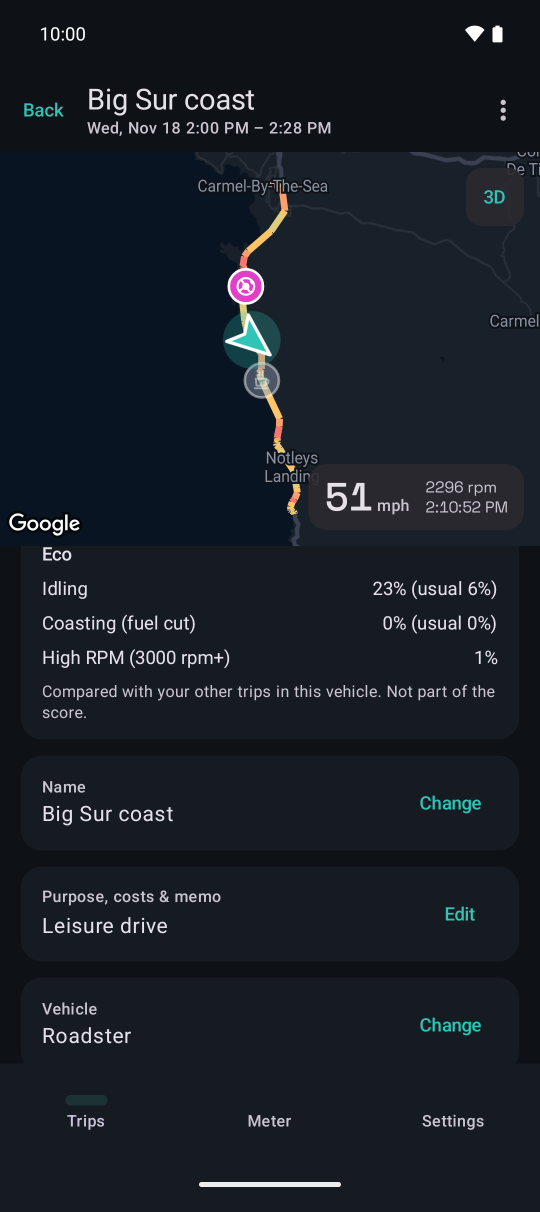
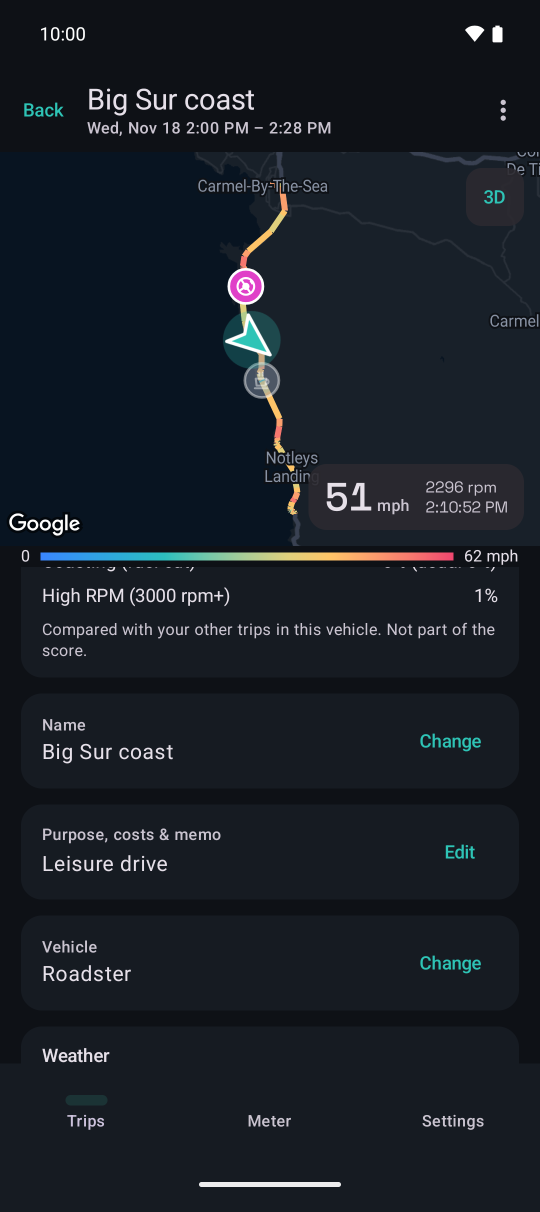
リプレイの画面を新しい並びに撮り直す（マニュアル・トップ）、動作確認済みアダプターのページを足す

diff --git a/ja/manual/replay.html b/ja/manual/replay.html
@@ -17,18 +17,18 @@
 <h1>走行詳細とリプレイ</h1>
 <p class="lead">走行を地図上で再生し、そのときの速度・回転数・燃費などを確認できます。</p>
 <h2 id="replay">地図と再生</h2>
-<figure class="shot"><div class="frame"><img src="../../manual/img/ja/detail-top.png" alt="" loading="lazy"><span class="box" style="left:0.00%;top:12.54%;width:100.00%;height:32.51%"><span class="mark">1</span></span><span class="box" style="left:86.11%;top:13.82%;width:11.11%;height:4.95%"><span class="mark">2</span></span><span class="box" style="left:57.87%;top:38.16%;width:39.35%;height:5.57%"><span class="mark">3</span></span><span class="box" style="left:3.89%;top:46.82%;width:96.11%;height:3.30%"><span class="mark">4</span></span><span class="box" style="left:3.89%;top:52.19%;width:92.22%;height:18.98%"><span class="mark">5</span></span><span class="box" style="left:26.39%;top:72.61%;width:47.22%;height:6.19%"><span class="mark">6</span></span><span class="box" style="left:80.56%;top:79.00%;width:15.56%;height:4.74%"><span class="mark">7</span></span></div><figcaption><ol class="legend"><li><span class="mark">1</span><span>ルートを色分けして描きます。イベントは種類ごとのアイコンで出し、タップするとその時刻へ移ります</span></li><li><span class="mark">2</span><span>3D の地図に切り替えます</span></li><li><span class="mark">3</span><span>再生している時刻の車速・回転数・時刻</span></li><li><span class="mark">4</span><span>色分けとグラフの値（速度・回転数・燃費・アクセル・エンジン負荷・水温・標高）</span></li><li><span class="mark">5</span><span>時系列のグラフ。指で横になぞると、その時刻へ移ります。下の ▲ はイベント（まだ来ていないものは薄く）、灰色の帯は休憩</span></li><li><span class="mark">6</span><span>再生・一時停止と前・次のイベントへ移動</span></li><li><span class="mark">7</span><span>再生の速さ（タップするたびに ×1・×4・×16・×60 に変更）</span></li></ol></figcaption></figure>
+<figure class="shot"><div class="frame"><img src="../../manual/img/ja/detail-top.png" alt="" loading="lazy"><span class="box" style="left:0.00%;top:12.54%;width:100.00%;height:32.22%"><span class="mark">1</span></span><span class="box" style="left:86.11%;top:13.82%;width:11.11%;height:4.95%"><span class="mark">2</span></span><span class="box" style="left:57.87%;top:38.16%;width:39.35%;height:5.57%"><span class="mark">3</span></span><span class="box" style="left:2.78%;top:44.88%;width:94.44%;height:2.15%"><span class="mark">4</span></span><span class="box" style="left:3.89%;top:47.24%;width:92.22%;height:17.95%"><span class="mark">5</span></span><span class="box" style="left:2.78%;top:67.04%;width:70.37%;height:6.81%"><span class="mark">6</span></span><span class="box" style="left:80.56%;top:68.07%;width:15.56%;height:4.74%"><span class="mark">7</span></span><span class="box" style="left:3.89%;top:74.05%;width:92.22%;height:9.69%"><span class="mark">8</span></span><span class="box" style="left:5.56%;top:85.60%;width:64.81%;height:2.68%"><span class="mark">9</span></span></div><figcaption><ol class="legend"><li><span class="mark">1</span><span>ルートを色分けして描きます。イベントは種類ごとのアイコンで出し、タップするとその時刻へ移ります</span></li><li><span class="mark">2</span><span>3D の地図に切り替えます</span></li><li><span class="mark">3</span><span>再生している時刻の車速・回転数・時刻</span></li><li><span class="mark">4</span><span>色分けの凡例（色と値の対応）</span></li><li><span class="mark">5</span><span>時系列のグラフ。指で横になぞると、その時刻へ移ります。下の ▲ はイベント（まだ来ていないものは薄く）、灰色の帯は休憩</span></li><li><span class="mark">6</span><span>左から、再生している時刻と走り始めからの経過時間、前のイベントへ・再生／一時停止・次のイベントへ</span></li><li><span class="mark">7</span><span>再生の速さ（タップするたびに ×1・×4・×16・×60 に変更）</span></li><li><span class="mark">8</span><span>再生している時刻の車速・回転数・瞬間燃費・水温。タップすると、その値を色分けとグラフにします（選んでいるものに下地の色が付きます）</span></li><li><span class="mark">9</span><span>ほかの値（アクセル・エンジン負荷・標高）を色分けとグラフにします</span></li></ol></figcaption></figure>
 <p>地図のイベントのアイコンは、急加速が右上がりの矢印、急減速が右下がりの矢印、速度超過がメーター、急ハンドルがハンドル、衝撃がはじける形、休憩がコーヒーカップです。地図を寄せて見ると、アイコンの横に種類・強さ・時刻のラベルが出ます。再生位置より先のイベントは薄く表示します。</p>
 <p>アクセル・エンジン負荷・水温・標高の色分けとグラフはプレミアムプランの機能です（記録にある値だけ出ます）。</p>
 <figure class="shot"><div class="frame"><img src="../../manual/img/ja/detail-3d.png" alt="" loading="lazy"><span class="box" style="left:86.11%;top:14.03%;width:10.65%;height:4.74%"><span class="mark">1</span></span></div><figcaption><p>3D 表示の地図です。進行方向を上にして車の斜め後ろから見下ろします。都市部では建物が立体で表示されます。地図を指で動かすと車を追うのを中断し、再生すると戻ります。</p><ol class="legend"><li><span class="mark">1</span><span>真上からの地図に戻します</span></li></ol></figcaption></figure>
 <h3>点線の区間</h3>
 <ul><li><strong>点線</strong>：GPS の電波が弱かった区間（トンネル・屋根の下・高架下など）。前後の位置を直線で結んでいます</li><li><strong>灰色の細かい点線</strong>：GPS を記録していなかった区間（位置情報の許可・端末の位置情報がオフ）</li><li>どちらも、再生中の車は OBD の車速に合わせて直線の上を進みます（止まっていた間は進みません）</li></ul>
-<h2>走行時の値・イベント・集計</h2>
-<figure class="shot"><div class="frame"><img src="../../manual/img/ja/detail-scroll1.png" alt="" loading="lazy"><span class="box" style="left:3.89%;top:47.03%;width:92.22%;height:11.96%"><span class="mark">1</span></span><span class="box" style="left:3.89%;top:59.20%;width:92.22%;height:9.69%"><span class="mark">2</span></span><span class="box" style="left:3.89%;top:70.54%;width:92.22%;height:17.74%"><span class="mark">3</span></span></div><figcaption><ol class="legend"><li><span class="mark">1</span><span>再生している時刻での各値</span></li><li><span class="mark">2</span><span>イベントの一覧。段階・強さ・減点・走り始めからの経過時間。タップでその時刻へ移動</span></li><li><span class="mark">3</span><span>距離・時間・推定燃費・走行時間・平均速度・最高速度</span></li></ol></figcaption></figure>
+<h2>イベント・集計</h2>
+<figure class="shot"><div class="frame"><img src="../../manual/img/ja/detail-scroll1.png" alt="" loading="lazy"><span class="box" style="left:3.89%;top:53.22%;width:92.22%;height:10.73%"><span class="mark">1</span></span><span class="box" style="left:3.89%;top:66.21%;width:92.22%;height:22.07%"><span class="mark">2</span></span></div><figcaption><ol class="legend"><li><span class="mark">1</span><span>イベントの一覧。段階・強さ・減点・走り始めからの経過時間。タップでその時刻へ移動</span></li><li><span class="mark">2</span><span>距離・時間・推定燃費・走行時間・平均速度・最高速度</span></li></ol></figcaption></figure>
 <p>イベントは急加速・急減速・急ハンドル・速度超過（それぞれ低・中・高の段階）と、衝撃・休憩です。どの段階から地図に出すかは設定の「走行中のイベント」で選択できます（<a href="score.html">運転スコアとイベント</a>）。</p>
-<figure class="shot"><div class="frame"><img src="../../manual/img/ja/detail-scroll3.png" alt="" loading="lazy"><span class="box" style="left:3.89%;top:57.55%;width:92.22%;height:8.04%"><span class="mark">1</span></span><span class="box" style="left:3.89%;top:66.63%;width:92.22%;height:11.34%"><span class="mark">2</span></span><span class="box" style="left:3.89%;top:79.41%;width:92.22%;height:7.63%"><span class="mark">3</span></span></div><figcaption><p>さらに下には出発地・到着地（登録地点に登録できます）があります。</p><ol class="legend"><li><span class="mark">1</span><span>走行の名前</span></li><li><span class="mark">2</span><span>用途（通勤・業務・送迎・ドライブなど）・費用（通行料・燃料代など）・メモ</span></li><li><span class="mark">3</span><span>走った車両（あとから変更できます）</span></li></ol></figcaption></figure>
+<figure class="shot"><div class="frame"><img src="../../manual/img/ja/detail-scroll3.png" alt="" loading="lazy"><span class="box" style="left:3.89%;top:52.81%;width:92.22%;height:7.01%"><span class="mark">1</span></span><span class="box" style="left:3.89%;top:61.67%;width:92.22%;height:11.96%"><span class="mark">2</span></span><span class="box" style="left:3.89%;top:75.50%;width:92.22%;height:7.01%"><span class="mark">3</span></span></div><figcaption><p>さらに下には出発地・到着地（登録地点に登録できます）があります。</p><ol class="legend"><li><span class="mark">1</span><span>走行の名前</span></li><li><span class="mark">2</span><span>用途（通勤・業務・送迎・ドライブなど）・費用（通行料・燃料代など）・メモ</span></li><li><span class="mark">3</span><span>走った車両（あとから変更できます）</span></li></ol></figcaption></figure>
 <h2 id="summary">走り終わりのまとめ</h2>
-<p>メーターで自分で記録を止めると、走り終わりのまとめが出ます（自動で止まったときは、休憩のあとの続きになるかもしれないので出しません）。走行詳細の右上の ⋮ メニューの「まとめ・画像で共有」からも、いつでも開けます。</p>
+<p>メーターで自分で記録を止めると、走り終わりのまとめが出ます（自動で止まったときは、休憩のあとの続きになるかもしれないので出しません）。まとめの「走行の詳細を見る」で、その走行のリプレイへ移れます。走行詳細の右上の ⋮ メニューの「まとめ・画像で共有」からも、いつでも開けます。</p>
 <figure class="shot"><div class="frame"><img src="../../manual/img/ja/summary.png" alt="" loading="lazy"></div><figcaption><p>ルートの線（イベントは ▲）・距離・時間・燃費・平均速度・最高速度・燃料・速度帯ごとの時間・運転スコアと減点・エコをまとめたカードです。右上には記録したアプリのバージョンが入ります。</p></figcaption></figure>
 <p>「画像で共有」で、カードをそのまま画像にして渡せます。地図の画像は使わず、ルートは線だけです。出発地・到着地は最初は入れません（自宅の場所が分かってしまうため）。天気と車両名は入れるかを切り替えられます。</p>
 <h2 id="export">書き出しと共有</h2>

diff --git a/manual/replay.html b/manual/replay.html
@@ -17,18 +17,18 @@
 <h1>Trip details and replay</h1>
 <p class="lead">Replay a trip on the map and see the speed, RPM, fuel economy and more at each moment.</p>
 <h2 id="replay">Map and playback</h2>
-<figure class="shot"><div class="frame"><img src="img/en/detail-top.png" alt="" loading="lazy"><span class="box" style="left:0.00%;top:12.54%;width:100.00%;height:32.51%"><span class="mark">1</span></span><span class="box" style="left:86.11%;top:13.82%;width:11.11%;height:4.95%"><span class="mark">2</span></span><span class="box" style="left:57.87%;top:38.16%;width:39.35%;height:5.57%"><span class="mark">3</span></span><span class="box" style="left:3.89%;top:46.82%;width:96.11%;height:3.30%"><span class="mark">4</span></span><span class="box" style="left:3.89%;top:52.19%;width:92.22%;height:18.98%"><span class="mark">5</span></span><span class="box" style="left:26.39%;top:72.61%;width:47.22%;height:6.19%"><span class="mark">6</span></span><span class="box" style="left:80.56%;top:79.00%;width:15.56%;height:4.74%"><span class="mark">7</span></span></div><figcaption><ol class="legend"><li><span class="mark">1</span><span>The route is drawn in colors. Events are shown with an icon for each kind; tap one to jump to that time</span></li><li><span class="mark">2</span><span>Switch to the 3D map</span></li><li><span class="mark">3</span><span>Speed, RPM and clock time at the playback position</span></li><li><span class="mark">4</span><span>Value for colors and the graph (speed, RPM, fuel economy, throttle, engine load, coolant, altitude)</span></li><li><span class="mark">5</span><span>Time graph. Drag across it to move to that time. The ▲ marks below are events (upcoming ones are faded) and gray bands are breaks</span></li><li><span class="mark">6</span><span>Play / pause, and previous / next event</span></li><li><span class="mark">7</span><span>Playback speed (each tap: ×1, ×4, ×16, ×60)</span></li></ol></figcaption></figure>
+<figure class="shot"><div class="frame"><img src="img/en/detail-top.png" alt="" loading="lazy"><span class="box" style="left:0.00%;top:12.54%;width:100.00%;height:32.22%"><span class="mark">1</span></span><span class="box" style="left:86.11%;top:13.82%;width:11.11%;height:4.95%"><span class="mark">2</span></span><span class="box" style="left:57.87%;top:38.16%;width:39.35%;height:5.57%"><span class="mark">3</span></span><span class="box" style="left:2.78%;top:44.88%;width:94.44%;height:2.15%"><span class="mark">4</span></span><span class="box" style="left:3.89%;top:47.24%;width:92.22%;height:17.95%"><span class="mark">5</span></span><span class="box" style="left:2.78%;top:67.04%;width:70.37%;height:6.81%"><span class="mark">6</span></span><span class="box" style="left:80.56%;top:68.07%;width:15.56%;height:4.74%"><span class="mark">7</span></span><span class="box" style="left:3.89%;top:74.05%;width:92.22%;height:9.69%"><span class="mark">8</span></span><span class="box" style="left:5.56%;top:85.60%;width:71.30%;height:2.68%"><span class="mark">9</span></span></div><figcaption><ol class="legend"><li><span class="mark">1</span><span>The route is drawn in colors. Events are shown with an icon for each kind; tap one to jump to that time</span></li><li><span class="mark">2</span><span>Switch to the 3D map</span></li><li><span class="mark">3</span><span>Speed, RPM and clock time at the playback position</span></li><li><span class="mark">4</span><span>Color legend (which color means which value)</span></li><li><span class="mark">5</span><span>Time graph. Drag across it to move to that time. The ▲ marks below are events (upcoming ones are faded) and gray bands are breaks</span></li><li><span class="mark">6</span><span>From the left: time at the playback position and time since the start, previous event, play / pause, next event</span></li><li><span class="mark">7</span><span>Playback speed (each tap: ×1, ×4, ×16, ×60)</span></li><li><span class="mark">8</span><span>Speed, RPM, instant fuel economy and coolant at the playback time. Tap one to show that value as colors and the graph (the selected one is highlighted)</span></li><li><span class="mark">9</span><span>Show the other values (throttle, engine load, altitude) as colors and the graph</span></li></ol></figcaption></figure>
 <p>Event icons on the map: an upward arrow for hard acceleration, a downward arrow for hard braking, a speedometer for speeding, a steering wheel for sharp turns, a burst for shocks and a coffee cup for breaks. Zoom in to see a label with the kind, strength and time next to each icon. Events after the playback position are faded.</p>
 <p>Coloring and graphs for throttle, engine load, coolant and altitude are Premium features (only values that were recorded appear).</p>
 <figure class="shot"><div class="frame"><img src="img/en/detail-3d.png" alt="" loading="lazy"><span class="box" style="left:86.11%;top:14.03%;width:10.65%;height:4.74%"><span class="mark">1</span></span></div><figcaption><p>The 3D map looks down from behind the car, with the direction of travel up. Buildings appear in 3D in cities. Moving the map with your finger stops following the car; playing resumes it.</p><ol class="legend"><li><span class="mark">1</span><span>Back to the top-down map</span></li></ol></figcaption></figure>
 <h3>Dashed sections</h3>
 <ul><li><strong>Dashed line</strong>: weak GPS signal (tunnels, under roofs, under overpasses). The points before and after are joined with a straight line</li><li><strong>Gray dotted line</strong>: GPS was not being recorded (location permission or the device's location was off)</li><li>In both, the car moves along the line at the speed reported by the car during playback (it stays still while the car was stopped)</li></ul>
-<h2>Values, events and summary</h2>
-<figure class="shot"><div class="frame"><img src="img/en/detail-scroll1.png" alt="" loading="lazy"><span class="box" style="left:3.89%;top:47.03%;width:92.22%;height:11.96%"><span class="mark">1</span></span><span class="box" style="left:3.89%;top:59.20%;width:92.22%;height:9.69%"><span class="mark">2</span></span><span class="box" style="left:3.89%;top:70.54%;width:92.22%;height:17.74%"><span class="mark">3</span></span></div><figcaption><ol class="legend"><li><span class="mark">1</span><span>Values at the playback time</span></li><li><span class="mark">2</span><span>Events: level, strength, deduction and time from the start. Tap to jump there</span></li><li><span class="mark">3</span><span>Distance, time, estimated fuel economy, moving time, average and top speed</span></li></ol></figcaption></figure>
+<h2>Events and summary</h2>
+<figure class="shot"><div class="frame"><img src="img/en/detail-scroll1.png" alt="" loading="lazy"><span class="box" style="left:3.89%;top:53.22%;width:92.22%;height:10.73%"><span class="mark">1</span></span><span class="box" style="left:3.89%;top:66.21%;width:92.22%;height:22.07%"><span class="mark">2</span></span></div><figcaption><ol class="legend"><li><span class="mark">1</span><span>Events: level, strength, deduction and time from the start. Tap to jump there</span></li><li><span class="mark">2</span><span>Distance, time, estimated fuel economy, moving time, average and top speed</span></li></ol></figcaption></figure>
 <p>Events are hard acceleration, hard braking, sharp turns and speeding (each with low, medium and high levels), plus impacts and breaks. Choose from which level they appear on the map in Settings → Driving events (see <a href="score.html">Driving score and events</a>).</p>
-<figure class="shot"><div class="frame"><img src="img/en/detail-scroll3.png" alt="" loading="lazy"><span class="box" style="left:3.89%;top:62.29%;width:92.22%;height:8.25%"><span class="mark">1</span></span><span class="box" style="left:3.89%;top:71.58%;width:92.22%;height:7.84%"><span class="mark">2</span></span><span class="box" style="left:3.89%;top:80.65%;width:92.22%;height:7.22%"><span class="mark">3</span></span></div><figcaption><p>Further down are the start and end places (you can register them as places).</p><ol class="legend"><li><span class="mark">1</span><span>Trip name</span></li><li><span class="mark">2</span><span>Purpose (commute, business, pickup, leisure and more), costs (tolls, fuel and more) and memo</span></li><li><span class="mark">3</span><span>The vehicle (you can change it later)</span></li></ol></figcaption></figure>
+<figure class="shot"><div class="frame"><img src="img/en/detail-scroll3.png" alt="" loading="lazy"><span class="box" style="left:3.89%;top:57.96%;width:92.22%;height:7.01%"><span class="mark">1</span></span><span class="box" style="left:3.89%;top:67.04%;width:92.22%;height:7.22%"><span class="mark">2</span></span><span class="box" style="left:3.89%;top:76.32%;width:92.22%;height:7.01%"><span class="mark">3</span></span></div><figcaption><p>Further down are the start and end places (you can register them as places).</p><ol class="legend"><li><span class="mark">1</span><span>Trip name</span></li><li><span class="mark">2</span><span>Purpose (commute, business, pickup, leisure and more), costs (tolls, fuel and more) and memo</span></li><li><span class="mark">3</span><span>The vehicle (you can change it later)</span></li></ol></figcaption></figure>
 <h2 id="summary">Trip summary</h2>
-<p>When you stop recording yourself on the meter, a trip summary appears (it doesn't appear after an automatic stop, since the trip may continue after a break). You can also open it any time from Summary & share as image in the ⋮ menu of the trip details.</p>
+<p>When you stop recording yourself on the meter, a trip summary appears (it doesn't appear after an automatic stop, since the trip may continue after a break). Open trip details in the summary takes you to the replay of that trip. You can also open it any time from Summary & share as image in the ⋮ menu of the trip details.</p>
 <figure class="shot"><div class="frame"><img src="img/en/summary.png" alt="" loading="lazy"></div><figcaption><p>A card with the route line (events as ▲), distance, time, fuel economy, average and top speed, fuel, time by speed, driving score and deductions, and eco figures. The version of the app that recorded the trip is shown at the top right.</p></figcaption></figure>
 <p>Share as image turns the card into a picture to send. No map image is used; the route is just a line. Start and end places are left out by default (they could reveal where you live). You can choose whether to include the weather and vehicle name.</p>
 <h2 id="export">Export and sharing</h2>

diff --git a/ja/manual/score.html b/ja/manual/score.html
@@ -16,7 +16,7 @@
 <nav class="pager"><a href="replay.html">← 走行詳細とリプレイ</a><a href="index.html">目次</a><a href="fuel.html">給油記録 →</a></nav>
 <h1>運転スコアとイベント</h1>
 <p class="lead">走行ごとに 100 点満点のスコアを出します。どのイベントで何点減ったかがすべて分かります。スコア計算は端末の中だけで行い、外部には元になるデータや結果を送信しません。</p>
-<figure class="shot"><div class="frame"><img src="../../manual/img/ja/detail-scroll2.png" alt="" loading="lazy"><span class="box" style="left:3.89%;top:56.93%;width:92.22%;height:22.07%"><span class="mark">1</span></span><span class="box" style="left:10.19%;top:64.15%;width:41.67%;height:2.27%"><span class="mark">2</span></span><span class="box" style="left:3.89%;top:79.00%;width:92.22%;height:9.28%"><span class="mark">3</span></span></div><figcaption><p>走行詳細の数値サマリ下の画面です。</p><ol class="legend"><li><span class="mark">1</span><span>運転スコアとイベントの種類・段階ごとの回数と減点</span></li><li><span class="mark">2</span><span>地図に出していない段階のイベントも減点します（その旨を注釈）</span></li><li><span class="mark">3</span><span>エコの評価（スコアとは別）</span></li></ol></figcaption></figure>
+<figure class="shot"><div class="frame"><img src="../../manual/img/ja/detail-scroll2.png" alt="" loading="lazy"><span class="box" style="left:3.89%;top:52.39%;width:92.22%;height:17.33%"><span class="mark">1</span></span><span class="box" style="left:10.19%;top:58.99%;width:34.26%;height:2.48%"><span class="mark">2</span></span><span class="box" style="left:3.89%;top:70.96%;width:92.22%;height:17.33%"><span class="mark">3</span></span></div><figcaption><p>走行詳細の数値サマリ下の画面です。</p><ol class="legend"><li><span class="mark">1</span><span>運転スコアとイベントの種類・段階ごとの回数と減点</span></li><li><span class="mark">2</span><span>地図に出していない段階のイベントも減点します（その旨を注釈）</span></li><li><span class="mark">3</span><span>エコの評価（スコアとは別）</span></li></ol></figcaption></figure>
 <h2>スコアの付け方</h2>
 <ul><li>100 点からイベント 1 件ごとに減点します：低 −1、中 −3、高 −6</li><li>長い走行ほどイベントが出やすいので 10 km より長い走行は「10 km ÷ 走行距離」を掛けてならします</li><li>衝撃（段差や悪路でも出るため）と休憩は減点対象となりません</li><li>距離が 1 km 未満の走行と、OBD の車速がない走行（GPS のみの走行）はスコアを出しません</li><li>スコアはイベントを地図に出す設定に関係なく算出します。速度超過の基準速度を変更した場合のみ算出結果が変わります</li></ul>
 <h2 id="levels">イベントの段階</h2>

diff --git a/manual/score.html b/manual/score.html
@@ -16,7 +16,7 @@
 <nav class="pager"><a href="replay.html">← Trip details and replay</a><a href="index.html">Contents</a><a href="fuel.html">Fuel log →</a></nav>
 <h1>Driving score and events</h1>
 <p class="lead">Each trip gets a score out of 100, and you can see exactly which events cost how many points. It is calculated only on your device; neither the data behind it nor the result is sent anywhere.</p>
-<figure class="shot"><div class="frame"><img src="img/en/detail-scroll2.png" alt="" loading="lazy"><span class="box" style="left:3.89%;top:56.93%;width:92.22%;height:22.07%"><span class="mark">1</span></span><span class="box" style="left:10.19%;top:66.42%;width:37.96%;height:3.30%"><span class="mark">2</span></span><span class="box" style="left:3.89%;top:80.45%;width:92.22%;height:7.84%"><span class="mark">3</span></span></div><figcaption><p>Below the summary in trip details.</p><ol class="legend"><li><span class="mark">1</span><span>Driving score and the count and deduction for each event type and level</span></li><li><span class="mark">2</span><span>Events at levels hidden from the map are still deducted (and labeled so)</span></li><li><span class="mark">3</span><span>Eco review (separate from the score)</span></li></ol></figcaption></figure>
+<figure class="shot"><div class="frame"><img src="img/en/detail-scroll2.png" alt="" loading="lazy"><span class="box" style="left:3.89%;top:52.81%;width:92.22%;height:22.28%"><span class="mark">1</span></span><span class="box" style="left:10.19%;top:62.91%;width:36.11%;height:2.48%"><span class="mark">2</span></span><span class="box" style="left:3.89%;top:76.32%;width:92.22%;height:11.96%"><span class="mark">3</span></span></div><figcaption><p>Below the summary in trip details.</p><ol class="legend"><li><span class="mark">1</span><span>Driving score and the count and deduction for each event type and level</span></li><li><span class="mark">2</span><span>Events at levels hidden from the map are still deducted (and labeled so)</span></li><li><span class="mark">3</span><span>Eco review (separate from the score)</span></li></ol></figcaption></figure>
 <h2>How the score works</h2>
 <ul><li>Start from 100 and deduct for each event: low −1, medium −3, high −6</li><li>Longer trips have more chances for events, so deductions on trips over 10 km (6.2 mi) are scaled by “10 km ÷ trip distance”</li><li>Impacts (which bumps and rough roads also cause) and breaks are not deducted</li><li>Trips under 1 km (0.6 mi) and trips without speed from the car (GPS only) get no score</li><li>The score does not depend on which levels are shown on the map. It changes only when you change the speeding thresholds</li></ul>
 <h2 id="levels">Event levels</h2>

diff --git a/ja/adapters.html b/ja/adapters.html
@@ -1,0 +1,35 @@
+<!doctype html>
+<html lang="ja">
+<head>
+<meta charset="utf-8">
+<meta name="viewport" content="width=device-width, initial-scale=1">
+<title>動作確認済みアダプター — CarReplotter</title>
+<meta name="description" content="CarReplotter で動作を確認した OBD2 アダプターです。ここにないものでも、Bluetooth Low Energy（BLE）型・Wi-Fi 型の ELM327 互換アダプターなら使えることがあります。">
+<link rel="stylesheet" href="../style.css">
+<link rel="alternate" hreflang="en" href="../adapters.html">
+</head>
+<body>
+<main>
+<header>
+  <a class="brand" href="./">CarReplotter</a>
+  <nav><a href="manual/">使い方</a><a href="privacy.html">プライバシー</a><a href="../adapters.html">English</a></nav>
+</header>
+<h1>動作確認済みアダプター</h1>
+<p class="lead">CarReplotter で動作を確認した OBD2 アダプターです。ここにないものでも、Bluetooth Low Energy（BLE）型・Wi-Fi 型の ELM327 互換アダプターなら使えることがあります。</p>
+<div class="table-scroll">
+<table class="adapters">
+<thead><tr><th>製品名</th><th>対応タイプ</th><th>スリープ対応</th><th>購入リンク</th></tr></thead>
+<tbody>
+<tr><td>Vgate iCar Pro Bluetooth 4.0 (BLE)<span class="sub">Bluetooth Classic の「Android-Vlink」も出ますが、CarReplotter では BLE の「IOS-Vlink」を使います。</span></td><td>BLE</td><td class="yes">対応</td><td>—</td></tr>
+<tr><td>Infocar PH-02<span class="sub">AT LP に応答しますが電波を出し続けるため、「切断時にスリープ」は使えません。</span></td><td>BLE</td><td class="no">非対応</td><td>—</td></tr>
+</tbody>
+</table>
+</div>
+<ul class="notes">
+<li>スリープ対応：「切断時にスリープ」（AT LP）でアダプターがスリープし、エンジン始動で起きるか。アプリのアダプターの設定から確認できます。非対応のものでも、エンジンを停止してしばらくすると自分でスリープするものがあります。</li>
+<li>私たちが試した結果です。車種・製造ロット・ファームウェアの版によって異なることがあります。</li>
+</ul>
+<footer><p><a href="terms.html">利用規約</a> · <a href="privacy.html">プライバシーポリシー</a> · <a href="tokushoho.html">特定商取引法に基づく表記</a></p><p>Copyright © 2026 Northeye Labs</p></footer>
+</main>
+</body>
+</html>

diff --git a/adapters.html b/adapters.html
@@ -1,0 +1,35 @@
+<!doctype html>
+<html lang="en">
+<head>
+<meta charset="utf-8">
+<meta name="viewport" content="width=device-width, initial-scale=1">
+<title>Tested adapters — CarReplotter</title>
+<meta name="description" content="OBD2 adapters we have tested with CarReplotter. Other ELM327-compatible adapters with Bluetooth Low Energy (BLE) or Wi-Fi may also work.">
+<link rel="stylesheet" href="style.css">
+<link rel="alternate" hreflang="ja" href="ja/adapters.html">
+</head>
+<body>
+<main>
+<header>
+  <a class="brand" href="./">CarReplotter</a>
+  <nav><a href="manual/">User guide</a><a href="privacy.html">Privacy</a><a href="ja/adapters.html">日本語</a></nav>
+</header>
+<h1>Tested adapters</h1>
+<p class="lead">OBD2 adapters we have tested with CarReplotter. Other ELM327-compatible adapters with Bluetooth Low Energy (BLE) or Wi-Fi may also work.</p>
+<div class="table-scroll">
+<table class="adapters">
+<thead><tr><th>Product</th><th>Connection</th><th>Sleep</th><th>Where to buy</th></tr></thead>
+<tbody>
+<tr><td>Vgate iCar Pro Bluetooth 4.0 (BLE)<span class="sub">It also shows up as "Android-Vlink" (Bluetooth Classic). CarReplotter uses "IOS-Vlink" (BLE).</span></td><td>BLE</td><td class="yes">Yes</td><td>—</td></tr>
+<tr><td>Infocar PH-02<span class="sub">It replies to AT LP but keeps advertising, so "Put to sleep on disconnect" can't be used.</span></td><td>BLE</td><td class="no">No</td><td>—</td></tr>
+</tbody>
+</table>
+</div>
+<ul class="notes">
+<li>Sleep: whether the adapter goes to sleep with "Put to sleep on disconnect" (AT LP) and wakes up when you start the engine. You can check it in the app from the adapter settings. Adapters without it may still sleep on their own some time after the engine is turned off.</li>
+<li>These are the results of our own tests. They may differ by vehicle, production lot or firmware version.</li>
+</ul>
+<footer><p><a href="terms.html">Terms of service</a> · <a href="privacy.html">Privacy policy</a></p><p>Copyright © 2026 Northeye Labs</p></footer>
+</main>
+</body>
+</html>

diff --git a/ja/manual/start.html b/ja/manual/start.html
@@ -18,6 +18,7 @@
 <p class="lead">OBD2 アダプターを車に装着し、アプリから一度接続すれば、あとは乗るたびに自動で記録されます。</p>
 <h2>必要なもの</h2>
 <ul><li>Android 16 以上のスマートフォンかタブレット端末</li><li>ELM327 互換の OBD2 アダプター。<strong>おすすめは Bluetooth Low Energy（BLE）型</strong>です。車に近づくと自動で接続し記録を始めることができます</li><li>Wi-Fi 型のアダプターも使えます（接続は手動となります）</li><li>Bluetooth Classic だけのアダプター（BLE に対応していないもの）は使えません</li><li>アダプターがなくても、GPS だけで走行を記録することもできます（回転数・燃費などは出ません）</li></ul>
+<p>動作を確認したアダプターは<a href="../adapters.html">動作確認済みアダプター</a>のページにまとめています。</p>
 <div class="note">このアプリは故障診断（故障コードの読み取り・消去など）はしません。運転の記録とリプレイ、メーター表示に絞っています。</div>
 <h2>最初の案内</h2>
 <p>はじめて起動したときに、言語や単位の設定、位置情報及び付近のデバイス（Bluetooth）の許可を順に求めます。許可は「あとで」にしてあとから設定することもできます。</p>

diff --git a/manual/start.html b/manual/start.html
@@ -18,6 +18,7 @@
 <p class="lead">Plug an OBD2 adapter into your car and connect to it once from the app. After that, every drive is recorded automatically.</p>
 <h2>What you need</h2>
 <ul><li>An Android 16 or later phone or tablet</li><li>An ELM327-compatible OBD2 adapter. <strong>A Bluetooth Low Energy (BLE) adapter is recommended</strong>: it connects and starts recording automatically when you get in the car</li><li>Wi-Fi adapters also work (you connect manually)</li><li>Adapters that only support Bluetooth Classic (no BLE) cannot be used</li><li>Without an adapter, you can still record trips with GPS only (no RPM, fuel economy and so on)</li></ul>
+<p>Adapters we have tested are listed on <a href="../adapters.html">Tested adapters</a>.</p>
 <div class="note">This app does not do diagnostics (reading or clearing trouble codes). It focuses on recording and replaying your drives, and on the meter.</div>
 <h2>First setup</h2>
 <p>The first time you open the app, it asks for your language and units, then for the location and nearby devices (Bluetooth) permissions. You can choose “Later” and grant them afterwards.</p>

diff --git a/style.css b/style.css
@@ -96,3 +96,15 @@ section.feature p { margin: 0; color: var(--muted); }
   section.feature .shots img + img { width: 46%; }
 }
 
+
+/* 動作確認済みアダプター */
+.table-scroll { overflow-x: auto; margin: 24px 0; }
+table.adapters { width: 100%; border-collapse: collapse; background: var(--surface); border: 1px solid var(--border); border-radius: 12px; overflow: hidden; }
+table.adapters th, table.adapters td { padding: 12px 14px; text-align: left; vertical-align: top; border-bottom: 1px solid var(--border); }
+table.adapters th { color: var(--muted); font-size: 0.85rem; font-weight: 600; white-space: nowrap; }
+table.adapters tbody tr:last-child td { border-bottom: none; }
+table.adapters td:not(:first-child) { white-space: nowrap; }
+table.adapters .sub { display: block; color: var(--muted); font-size: 0.85rem; margin-top: 4px; }
+table.adapters td.yes { color: var(--accent); font-weight: 600; }
+table.adapters td.no { color: var(--muted); }
+ul.notes { color: var(--muted); font-size: 0.9rem; }

diff --git a/ja/index.html b/ja/index.html
@@ -38,7 +38,7 @@
   <li>複数の車両。車台番号とアダプターで自動で判別します</li>
   <li>走行を GPX・KML・CSV で書き出し。選んだフォルダにバックアップ</li>
 </ul>
-<p>Bluetooth Low Energy・Wi-Fi の ELM327 互換 OBD2 アダプターに対応しています。アダプターがなくても GPS だけで記録できます。</p>
+<p>Bluetooth Low Energy・Wi-Fi の ELM327 互換 OBD2 アダプターに対応しています。アダプターがなくても GPS だけで記録できます。 <a href="adapters.html">動作確認済みアダプター</a></p>
 </div>
 
 <div class="card">

diff --git a/index.html b/index.html
@@ -38,7 +38,7 @@
   <li>Several vehicles, identified automatically by VIN and adapter</li>
   <li>Export trips as GPX, KML or CSV, and back up your data to a folder you choose</li>
 </ul>
-<p>Works with Bluetooth Low Energy and Wi-Fi ELM327-compatible OBD2 adapters. You can also record with GPS only.</p>
+<p>Works with Bluetooth Low Energy and Wi-Fi ELM327-compatible OBD2 adapters. You can also record with GPS only. <a href="adapters.html">Tested adapters</a></p>
 </div>
 
 <div class="card">

diff --git a/src/manual.py b/src/manual.py
@@ -23,6 +23,7 @@ PAGES = [{'slug': 'start',
              'manual.start.what_you_need.list1.3',
              'manual.start.what_you_need.list1.4',
              'manual.start.what_you_need.list1.5']),
+           ('p', 'manual.start.what_you_need.adapters'),
            ('note', 'manual.start.what_you_need.note1'),
            ('h2', 'manual.start.first_setup.heading'),
            ('p', 'manual.start.first_setup.p1'),
@@ -132,13 +133,15 @@ PAGES = [{'slug': 'start',
   'body': [('h2', 'manual.replay.replay.heading', 'replay'),
            ('fig',
             'detail-top',
-            [(1, (0, 304, 1080, 1092), 'manual.replay.fig.detail_top.mark1'),
+            [(1, (0, 304, 1080, 1085), 'manual.replay.fig.detail_top.mark1'),
              (2, (930, 335, 1050, 455), 'manual.replay.fig.detail_top.mark2'),
              (3, (625, 925, 1050, 1060), 'manual.replay.fig.detail_top.mark8'),
-             (4, (42, 1135, 1080, 1215), 'manual.replay.fig.detail_top.mark3'),
-             (5, (42, 1265, 1038, 1725), 'manual.replay.fig.detail_top.mark7'),
-             (6, (285, 1760, 795, 1910), 'manual.replay.fig.detail_top.mark4'),
-             (7, (870, 1915, 1038, 2030), 'manual.replay.fig.detail_top.mark6')],
+             (4, (30, 1088, 1050, 1140), 'manual.replay.fig.detail_top.mark9'),
+             (5, (42, 1145, 1038, 1580), 'manual.replay.fig.detail_top.mark7'),
+             (6, (30, 1625, 790, 1790), 'manual.replay.fig.detail_top.mark4'),
+             (7, (870, 1650, 1038, 1765), 'manual.replay.fig.detail_top.mark6'),
+             (8, (42, 1795, 1038, 2030), 'manual.replay.fig.detail_top.mark10'),
+             (9, {'en': (60, 2075, 830, 2140), 'ja': (60, 2075, 760, 2140)}, 'manual.replay.fig.detail_top.mark3')],
             None),
            ('p', 'manual.replay.replay.p2'),
            ('p', 'manual.replay.replay.p1'),
@@ -148,16 +151,15 @@ PAGES = [{'slug': 'start',
            ('h2', 'manual.replay.values_events_and_summary.heading'),
            ('fig',
             'detail-scroll1',
-            [(1, (42, 1140, 1038, 1430), 'manual.replay.fig.detail_scroll1.mark1'),
-             (2, (42, 1435, 1038, 1670), 'manual.replay.fig.detail_scroll1.mark2'),
-             (3, (42, 1710, 1038, 2140), 'manual.replay.fig.detail_scroll1.mark3')],
+            [(1, (42, 1290, 1038, 1550), 'manual.replay.fig.detail_scroll1.mark2'),
+             (2, (42, 1605, 1038, 2140), 'manual.replay.fig.detail_scroll1.mark3')],
             None),
            ('p', 'manual.replay.values_events_and_summary.p1'),
            ('fig',
             'detail-scroll3',
-            [(1, {'en': (42, 1510, 1038, 1710), 'ja': (42, 1395, 1038, 1590)}, 'manual.replay.fig.detail_scroll3.mark1'),
-             (2, {'en': (42, 1735, 1038, 1925), 'ja': (42, 1615, 1038, 1890)}, 'manual.replay.fig.detail_scroll3.mark2'),
-             (3, {'en': (42, 1955, 1038, 2130), 'ja': (42, 1925, 1038, 2110)}, 'manual.replay.fig.detail_scroll3.mark3')],
+            [(1, {'en': (42, 1405, 1038, 1575), 'ja': (42, 1280, 1038, 1450)}, 'manual.replay.fig.detail_scroll3.mark1'),
+             (2, {'en': (42, 1625, 1038, 1800), 'ja': (42, 1495, 1038, 1785)}, 'manual.replay.fig.detail_scroll3.mark2'),
+             (3, {'en': (42, 1850, 1038, 2020), 'ja': (42, 1830, 1038, 2000)}, 'manual.replay.fig.detail_scroll3.mark3')],
             'manual.replay.fig.detail_scroll3.caption'),
            ('h2', 'manual.replay.summary.heading', 'summary'),
            ('p', 'manual.replay.summary.p1'),
@@ -176,9 +178,9 @@ PAGES = [{'slug': 'start',
   'lead': True,
   'body': [('fig',
             'detail-scroll2',
-            [(1, (42, 1380, 1038, 1915), 'manual.score.fig.detail_scroll2.mark1'),
-             (2, {'en': (110, 1610, 520, 1690), 'ja': (110, 1555, 560, 1610)}, 'manual.score.fig.detail_scroll2.mark2'),
-             (3, {'en': (42, 1950, 1038, 2140), 'ja': (42, 1915, 1038, 2140)}, 'manual.score.fig.detail_scroll2.mark3')],
+            [(1, {'en': (42, 1280, 1038, 1820), 'ja': (42, 1270, 1038, 1690)}, 'manual.score.fig.detail_scroll2.mark1'),
+             (2, {'en': (110, 1525, 500, 1585), 'ja': (110, 1430, 480, 1490)}, 'manual.score.fig.detail_scroll2.mark2'),
+             (3, {'en': (42, 1850, 1038, 2140), 'ja': (42, 1720, 1038, 2140)}, 'manual.score.fig.detail_scroll2.mark3')],
             'manual.score.fig.detail_scroll2.caption'),
            ('h2', 'manual.score.how_the_score_works.heading'),
            ('ul',
